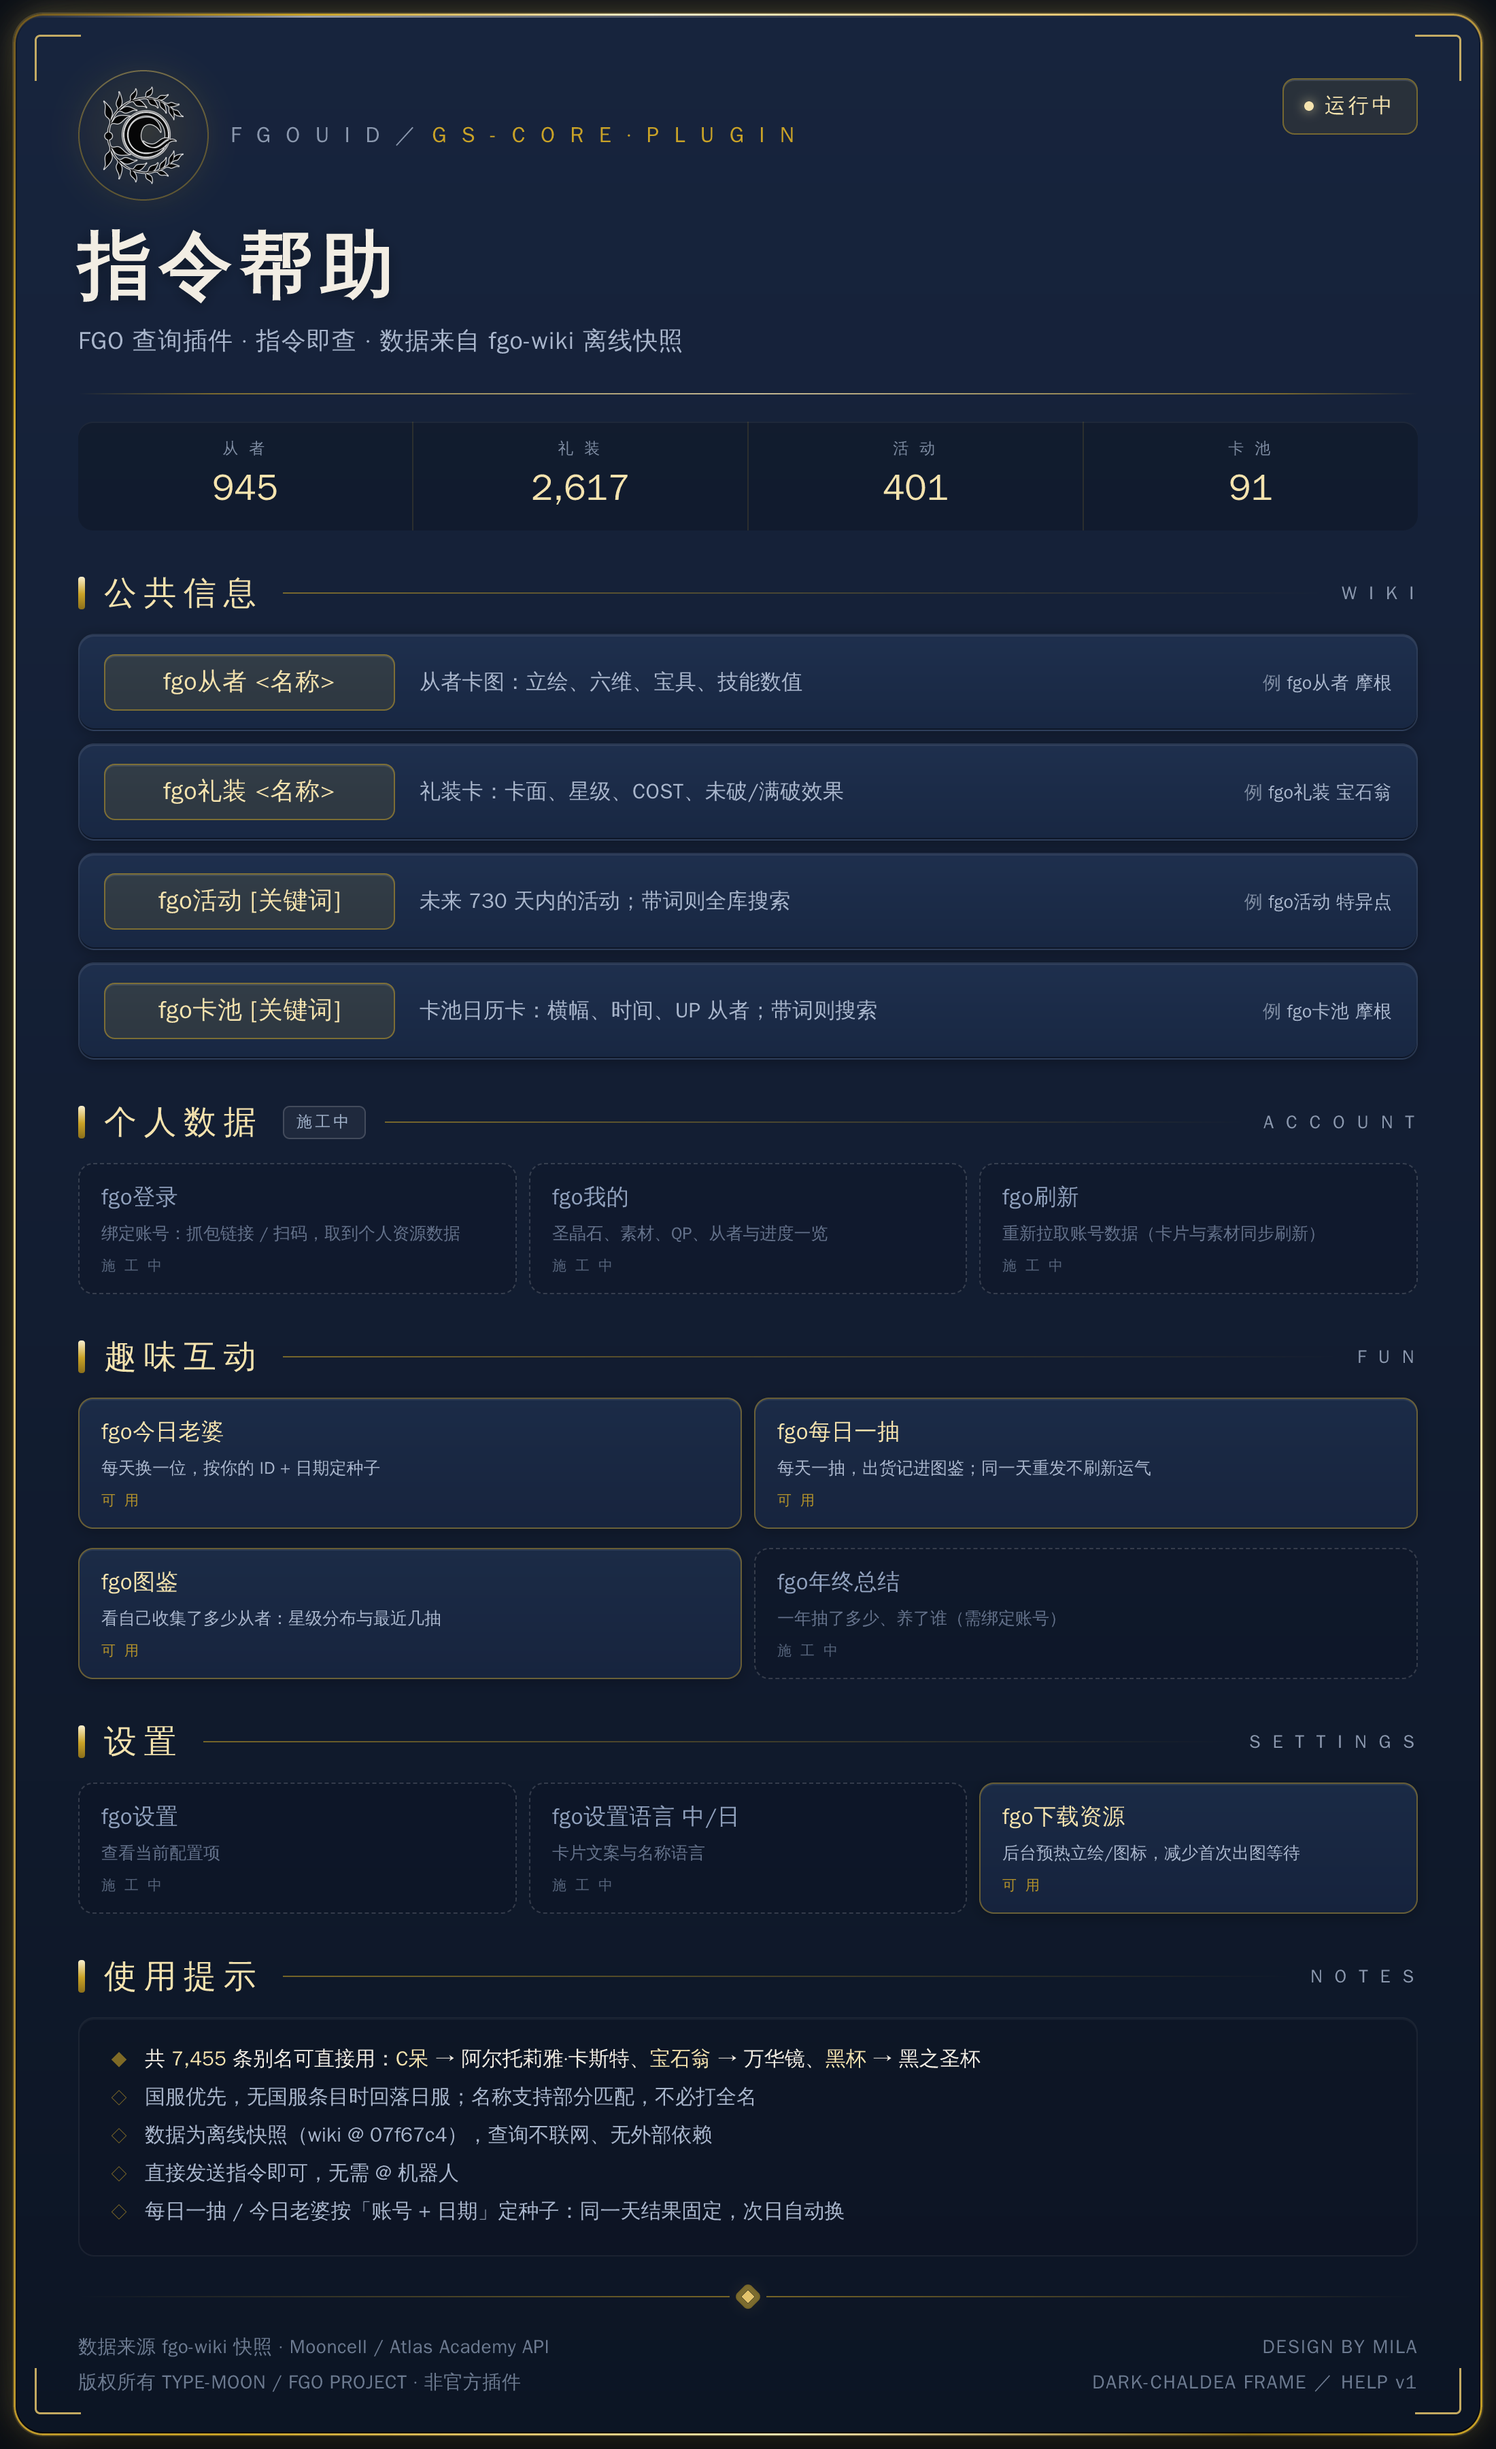
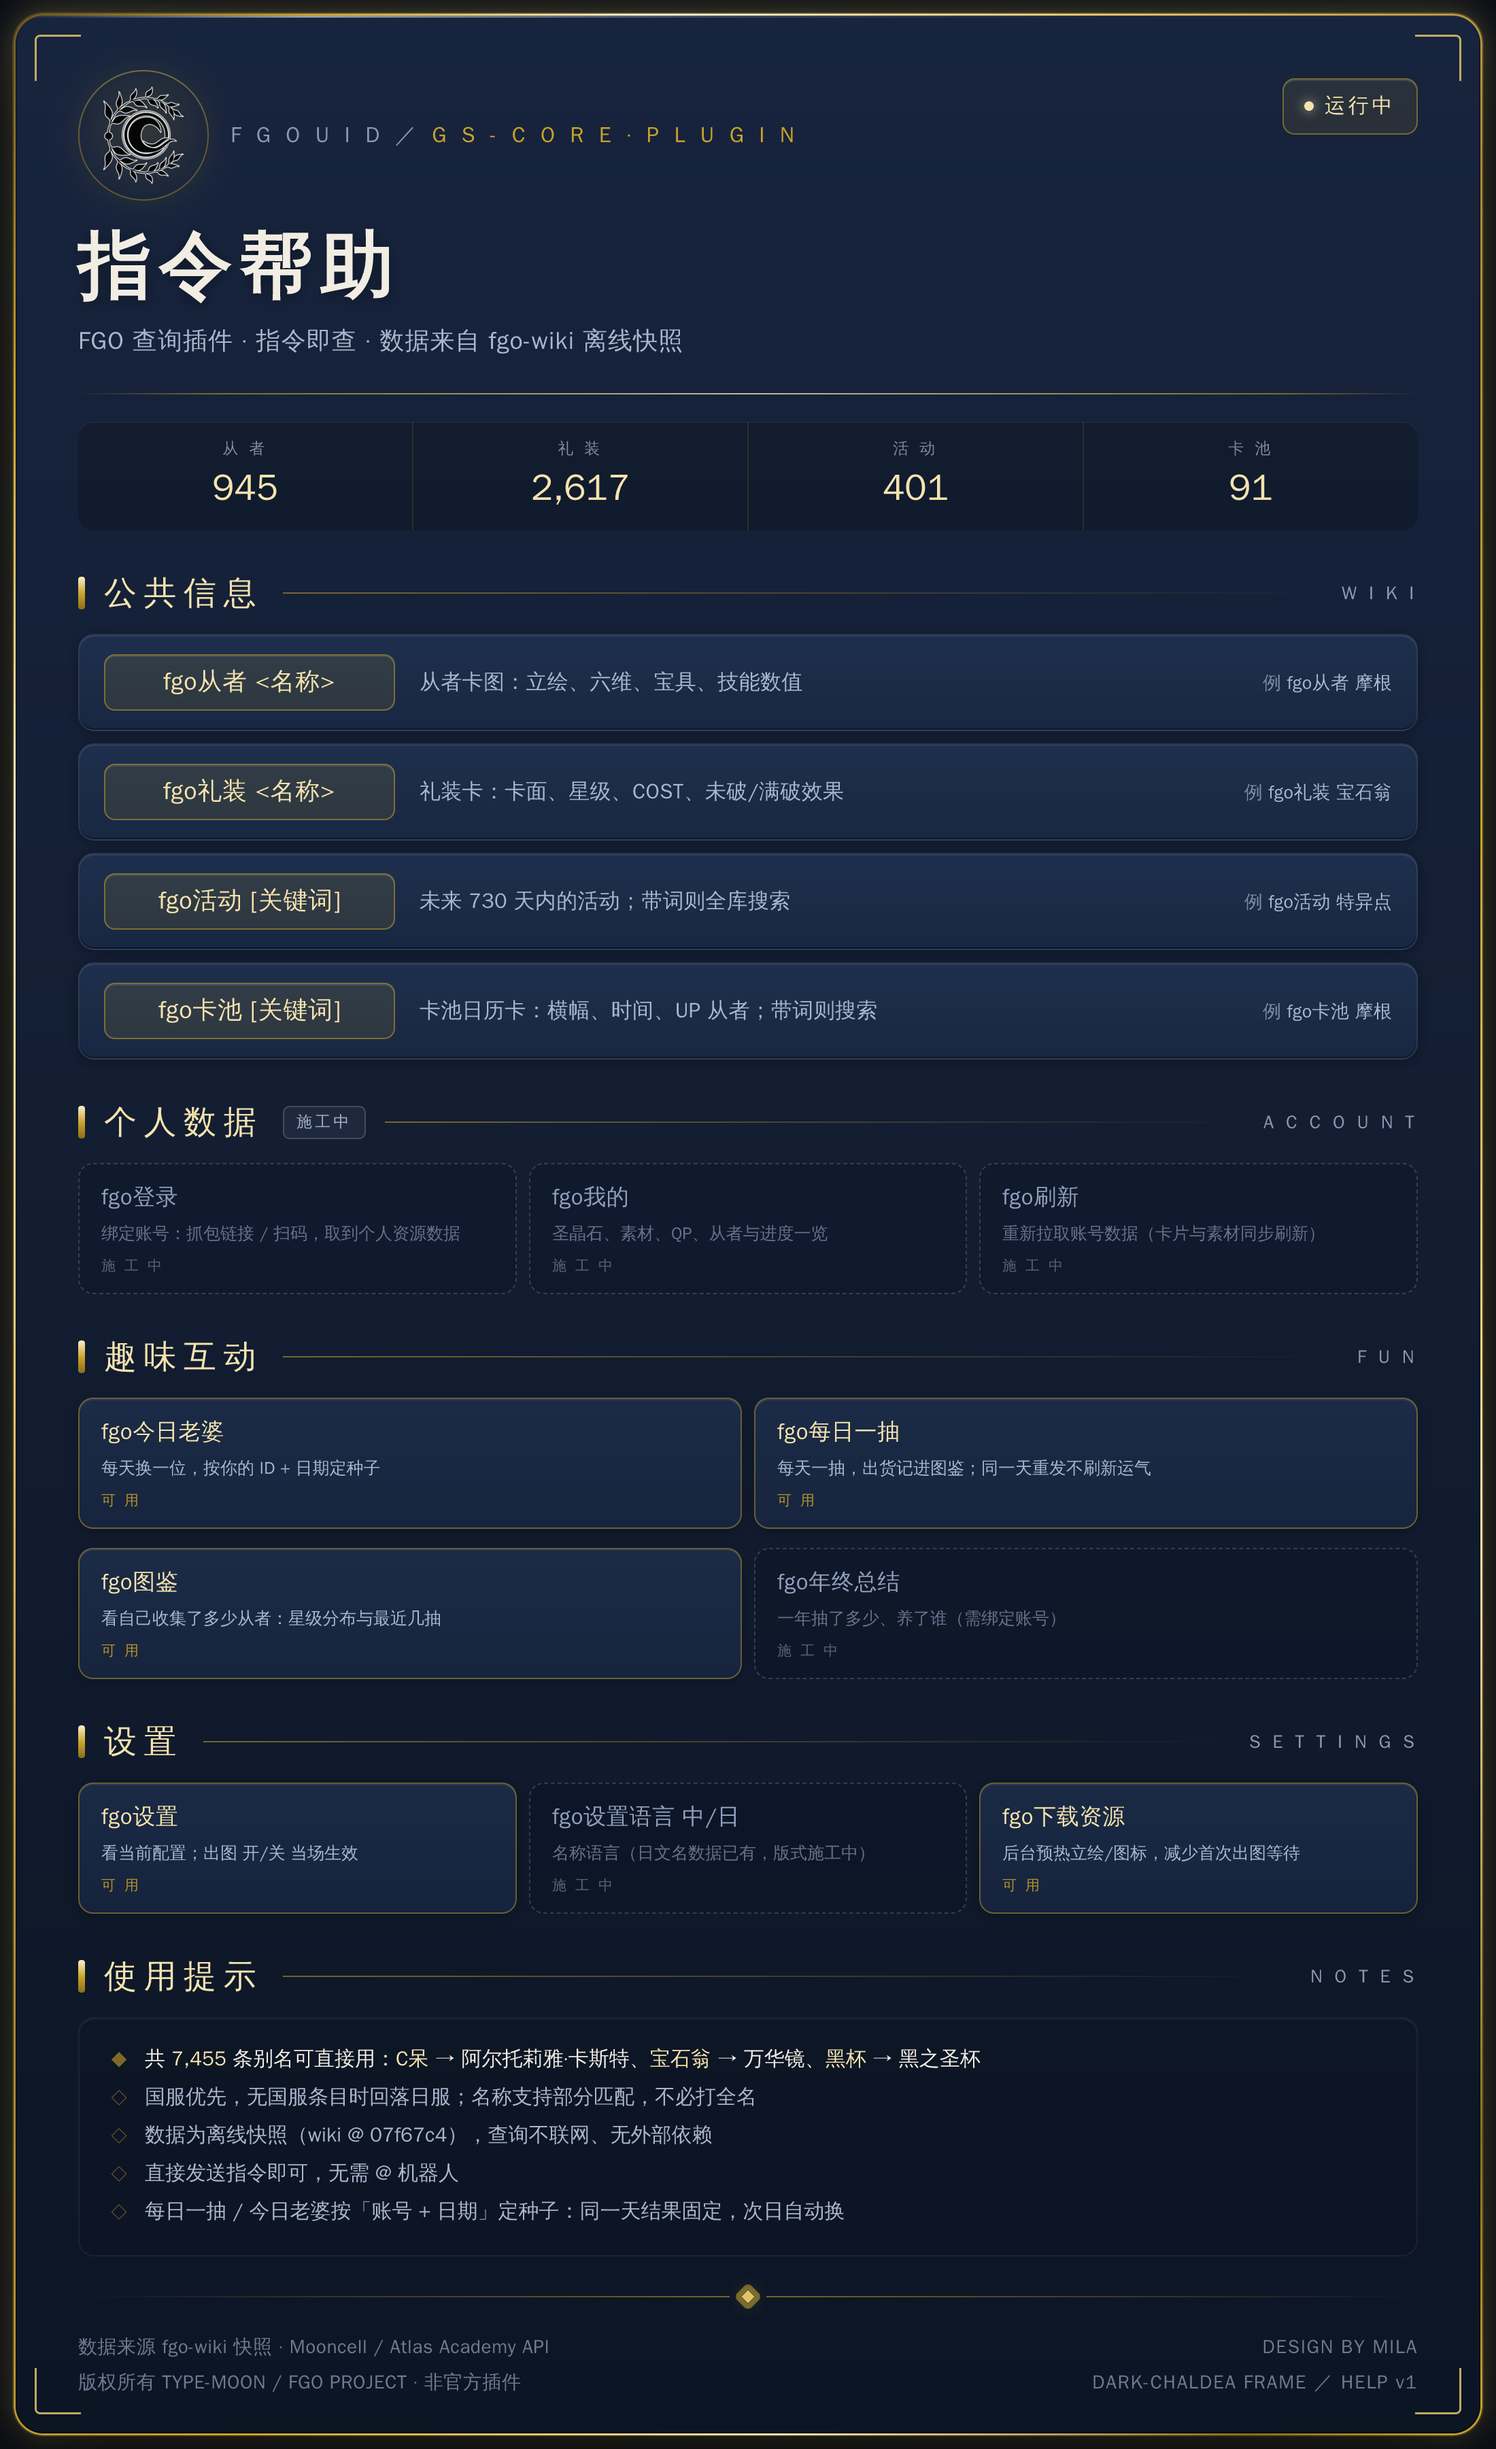
feat(settings): fgo设置 / fgo设置出图 开|关（按群或按人记）
- core/settings.py：settings.json（g:<群> / u:<QQ>），默认 出图=开、语言=中文
- 出图关掉后 从者/礼装/卡池/老婆/每日一抽/帮助 全部回落到文字
- fgo设置语言：日文名数据已有（name_jp），版式未做，先提示施工中
- 帮助卡设置区块：fgo设置 标为可用

Changed region(s): [[0.0309, 0.7154, 0.34, 0.7776]]

diff --git a/__init__.py b/__init__.py
@@ -15,6 +15,14 @@ from .core.gacha_card import get_gacha_png, prewarm_banners
 from .core.fun import format_waifu, today_waifu
 from .core.help_card import get_help_png
 from .core.play import draw, format_draw, format_stats, stats
+from .core.settings import (
+    all_of,
+    format_settings,
+    image_on,
+    parse_bool,
+    put,
+    scope_of,
+)
 from .core.prewarm import (
     DEFAULT_BATCH,
     MAX_BATCH,
@@ -53,6 +61,8 @@ HELP_TEXT = (
     "fgo每日一抽 — 今天的一抽（出货记进图鉴）\n"
     "fgo图鉴 — 收集进度\n"
     "— 设置 —\n"
+    "fgo设置 — 看当前配置\n"
+    "fgo设置出图 开/关 — 只发文字 / 发卡片图\n"
     "fgo下载资源 [数量] — 后台预热素材\n"
     "— 其他 —\n"
     "fgo测试 — 链路自检\n"
@@ -67,6 +77,8 @@ async def fgo_ping(bot: Bot, ev: Event):
 
 @sv.on_fullmatch("fgo帮助", block=True)
 async def fgo_help(bot: Bot, ev: Event):
+    if not image_on(ev):
+        return await bot.send(HELP_TEXT)
     # 三级降级：服务器端渲染 → 仓库内预渲染图 → 纯文字
     try:
         png = await get_help_png()
@@ -104,6 +116,8 @@ async def fgo_servant(bot: Bot, ev: Event):
     row = find_servant(name)
     if row is None:
         return await bot.send(f"未找到从者：{name}")
+    if not image_on(ev):
+        return await bot.send(format_servant(row))
     # 有卡片数据就发主题卡图（多宝具从者按模组各发一张）；没有/渲染失败则退回文字
     try:
         pngs = await render_cards(row["id"])
@@ -123,6 +137,8 @@ async def fgo_ce(bot: Bot, ev: Event):
     row = find_ce(name)
     if row is None:
         return await bot.send(f"未找到礼装：{name}")
+    if not image_on(ev):
+        return await bot.send(format_ce(row))
     try:
         png = await asyncio.wait_for(get_ce_png(dict(row), load_details_for(row)), timeout=45)
     except asyncio.TimeoutError:
@@ -146,6 +162,8 @@ async def fgo_event(bot: Bot, ev: Event):
 async def fgo_gacha(bot: Bot, ev: Event):
     kw = (ev.text or "").strip()
     rows = list_gacha(kw)
+    if not image_on(ev):
+        return await bot.send(format_gacha(rows))
     try:
         # 首屏要下横幅（~150KB/张），给个上限，超时先发文字，缓存会留给下一次
         png = await asyncio.wait_for(get_gacha_png(rows, kw), timeout=25)
@@ -165,6 +183,8 @@ async def fgo_waifu(bot: Bot, ev: Event):
     pick = today_waifu(ev.user_id)
     if pick is None:
         return await bot.send("数据还没同步好，稍后再试")
+    if not image_on(ev):
+        return await bot.send(format_waifu(pick))
     try:
         pngs = await render_cards(pick["id"])
     except Exception as e:
@@ -185,6 +205,8 @@ async def fgo_daily_draw(bot: Bot, ev: Event):
     if res is None:
         return await bot.send("数据还没同步好，稍后再试")
     await bot.send(format_draw(res))
+    if not image_on(ev):
+        return
     try:
         pngs = await render_cards(res["servant_id"])
     except Exception as e:
@@ -192,6 +214,39 @@ async def fgo_daily_draw(bot: Bot, ev: Event):
         pngs = []
     if pngs:
         await bot.send([MessageSegment.image(p) for p in pngs])
+
+
+@sv.on_fullmatch("fgo设置", block=True)
+async def fgo_settings(bot: Bot, ev: Event):
+    await bot.send(format_settings(ev))
+
+
+@sv.on_command("fgo设置出图", block=True)
+async def fgo_set_image(bot: Bot, ev: Event):
+    arg = (ev.text or "").strip()
+    val = parse_bool(arg)
+    if val is None:
+        return await bot.send("用法：fgo设置出图 开 / 关（关掉后从者、礼装、卡池都只发文字）")
+    put(scope_of(ev), "image", val)
+    await bot.send("出图已" + ("开启 ✅ 之后会发卡片图" if val else "关闭 ✅ 之后只发文字"))
+
+
+@sv.on_command("fgo设置语言", block=True)
+async def fgo_set_lang(bot: Bot, ev: Event):
+    arg = (ev.text or "").strip()
+    if arg in ("中", "中文", "zh"):
+        want = "zh"
+    elif arg in ("日", "日文", "jp", "ja"):
+        want = "jp"
+    else:
+        return await bot.send("用法：fgo设置语言 中 / 日")
+    cur = all_of(scope_of(ev))
+    if want == cur.get("lang"):
+        return await bot.send(f"语言已经是{'中文' if want == 'zh' else '日文'}了")
+    if want == "jp":
+        return await bot.send("日文名数据已经有了（模型里的 name_jp），但卡片版式还没做完 —— 施工中")
+    put(scope_of(ev), "lang", want)
+    await bot.send("语言已切换为中文 ✅")
 
 
 @sv.on_fullmatch(("fgo图鉴", "从者图鉴"), block=True)

diff --git a/core/settings.py b/core/settings.py
@@ -1,0 +1,103 @@
+# -*- coding: utf-8 -*-
+"""按群/按人的偏好设置（不需要账号数据的那些开关）。
+
+存 ``<data>/FGOUID/settings.json``，结构 ``{"g:<群号>": {...}, "u:<QQ号>": {...}}``：
+群聊按群走（换了谁的号都一样），私聊按人走。没设置过的键用默认值，不写盘。
+
+为什么不用 GsCore 的插件配置：那套是按「插件」全局配置、需要重启/网页端改；
+这里要的是用户当场发指令就能改的开关。
+"""
+from __future__ import annotations
+
+import json
+import threading
+
+from .store import file
+
+FILE = "settings.json"
+_lock = threading.Lock()
+
+DEFAULTS: dict[str, object] = {
+    "image": True,     # 出图开关：关掉后所有卡片命令回落到文字
+    "lang": "zh",      # zh / jp（名称语言，日文名数据来自模型里的 name_jp）
+}
+
+# 给「fgo设置」文案用的中文名
+LABELS = {"image": "出图", "lang": "语言"}
+CHOICES = {
+    "image": {True: "开", False: "关"},
+    "lang": {"zh": "中文", "jp": "日文"},
+}
+
+
+def scope_of(ev) -> str:
+    gid = getattr(ev, "group_id", None)
+    if gid and str(gid) not in ("0", "None", ""):
+        return f"g:{gid}"
+    return f"u:{getattr(ev, 'user_id', '0')}"
+
+
+def _load() -> dict:
+    p = file(FILE)
+    if not p.is_file():
+        return {}
+    try:
+        return json.loads(p.read_text(encoding="utf-8"))
+    except Exception:
+        return {}
+
+
+def _save(data: dict) -> None:
+    p = file(FILE)
+    tmp = p.with_suffix(".tmp")
+    tmp.write_text(json.dumps(data, ensure_ascii=False, indent=1), encoding="utf-8")
+    tmp.replace(p)
+
+
+def get(scope: str, key: str):
+    with _lock:
+        data = _load()
+    return data.get(scope, {}).get(key, DEFAULTS.get(key))
+
+
+def put(scope: str, key: str, value) -> None:
+    with _lock:
+        data = _load()
+        data.setdefault(scope, {})[key] = value
+        _save(data)
+
+
+def all_of(scope: str) -> dict:
+    with _lock:
+        data = _load()
+    merged = dict(DEFAULTS)
+    merged.update(data.get(scope, {}))
+    return merged
+
+
+def image_on(ev) -> bool:
+    return bool(get(scope_of(ev), "image"))
+
+
+def parse_bool(text: str) -> bool | None:
+    t = (text or "").strip().lower()
+    if t in ("开", "开图", "on", "true", "1", "是", "图片", "图"):
+        return True
+    if t in ("关", "关图", "off", "false", "0", "否", "文字", "别发图", "不发图"):
+        return False
+    return None
+
+
+def format_settings(ev) -> str:
+    scope = scope_of(ev)
+    cur = all_of(scope)
+    where = "本群" if scope.startswith("g:") else "私聊"
+    lines = [f"【FGOUID 设置】{where}"]
+    for key in ("image", "lang"):
+        val = cur.get(key)
+        shown = CHOICES.get(key, {}).get(val, str(val))
+        lines.append(f"{LABELS[key]}：{shown}")
+    lines.append("")
+    lines.append("fgo设置出图 开/关 — 关掉后只看文字")
+    lines.append("fgo设置语言 中/日 — 名称语言（施工中）")
+    return "\n".join(lines)

diff --git a/core/help_card.py b/core/help_card.py
@@ -78,8 +78,8 @@ SECTION_SETTINGS = {
     "en": "S E T T I N G S",
     "kind": "grid",
     "items": [
-        {"k": "fgo设置", "d": "查看当前配置项", "on": False},
-        {"k": "fgo设置语言 中/日", "d": "卡片文案与名称语言", "on": False},
+        {"k": "fgo设置", "d": "看当前配置；出图 开/关 当场生效", "on": True},
+        {"k": "fgo设置语言 中/日", "d": "名称语言（日文名数据已有，版式施工中）", "on": False},
         {"k": "fgo下载资源", "d": "后台预热立绘/图标，减少首次出图等待", "on": True},
     ],
 }

diff --git a/README.md b/README.md
@@ -14,6 +14,8 @@ FGO（Fate/Grand Order）查询插件，基于 [GsCore](https://github.com/Gensh
 | `fgo每日一抽` | 每天一抽（同一天结果固定），出货记进图鉴 |
 | `fgo图鉴` | 收集进度：已收集多少从者、星级分布、最近几抽 |
 | `fgo下载资源 [数量]` | 后台预热立绘/图标（默认 60 张，最多 200），减少首次出图等待 |
+| `fgo设置` | 看当前配置（按群/按人） |
+| `fgo设置出图 开/关` | 关掉后从者/礼装/卡池/老婆只发文字（省流量、怕刷屏的群用） |
 | `fgo测试` | 链路自检 |
 | `fgo帮助` | 帮助卡（图片，主题同 fgo-wiki card-render） |
 
@@ -110,7 +112,7 @@ PYTHONDONTWRITEBYTECODE=1 .render-venv/bin/python tools/render_help.py   # → a
 | 公共信息 | ✅ 可用 | `fgo从者` `fgo礼装` `fgo活动` `fgo卡池` |
 | 个人数据 | 🚧 施工中 | `fgo登录` `fgo我的` `fgo刷新`（需绑定账号，抓包链接 / 扫码） |
 | 趣味互动 | ✅ 部分可用 | `fgo今日老婆` `fgo每日一抽` `fgo图鉴`；`fgo年终总结` 施工中（需绑定账号） |
-| 设置 | 🚧 部分可用 | `fgo下载资源` ✅；`fgo设置`、语言 中/日 施工中 |
+| 设置 | 🚧 部分可用 | `fgo设置` `fgo设置出图` `fgo下载资源` ✅；语言 中/日 施工中 |
 
 `fgo帮助` 的图就是按这四块排的，未开放项标「施工中」。
 
@@ -147,6 +149,8 @@ FGOUID/
 ├── core/card.py           # 从者卡：模型 → 素材 → 渲染 → 缓存
 ├── core/gacha_card.py     # 卡池日历卡（列表卡）：行模型 → HTML → 渲染 → 缓存
 ├── core/ce_card.py        # 礼装卡：craft_essences + ce_details → HTML → 渲染 → 缓存
+├── core/settings.py       # 按群/按人的偏好（出图开关、语言），JSON 落 data/FGOUID
+├── core/store.py          # 运行时可写目录
 ├── card/                  # 从 fgo-wiki/card-render 搬来的渲染实现
 │   ├── build.py           #   数据模型 → HTML（模板填充）
 │   ├── fetch.py           #   立绘/羁绊礼装/技能图标按需下载 + 缓存
